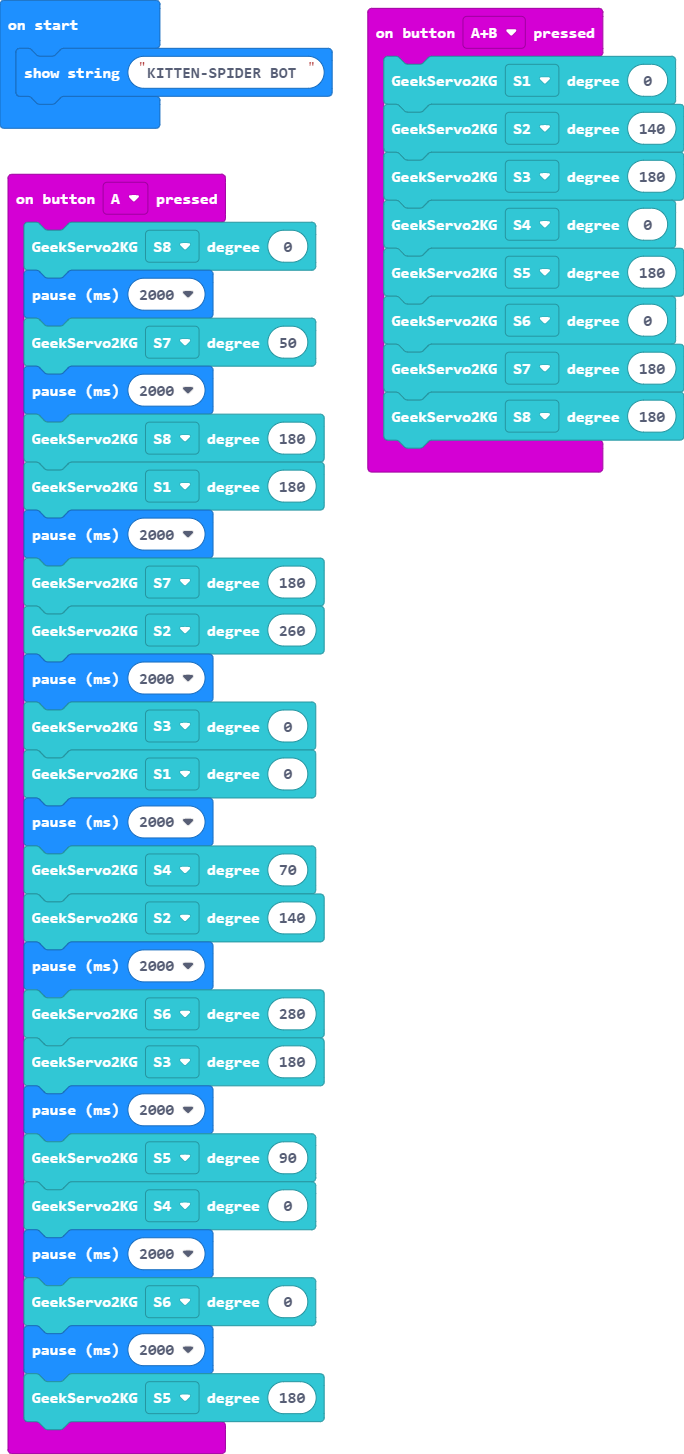
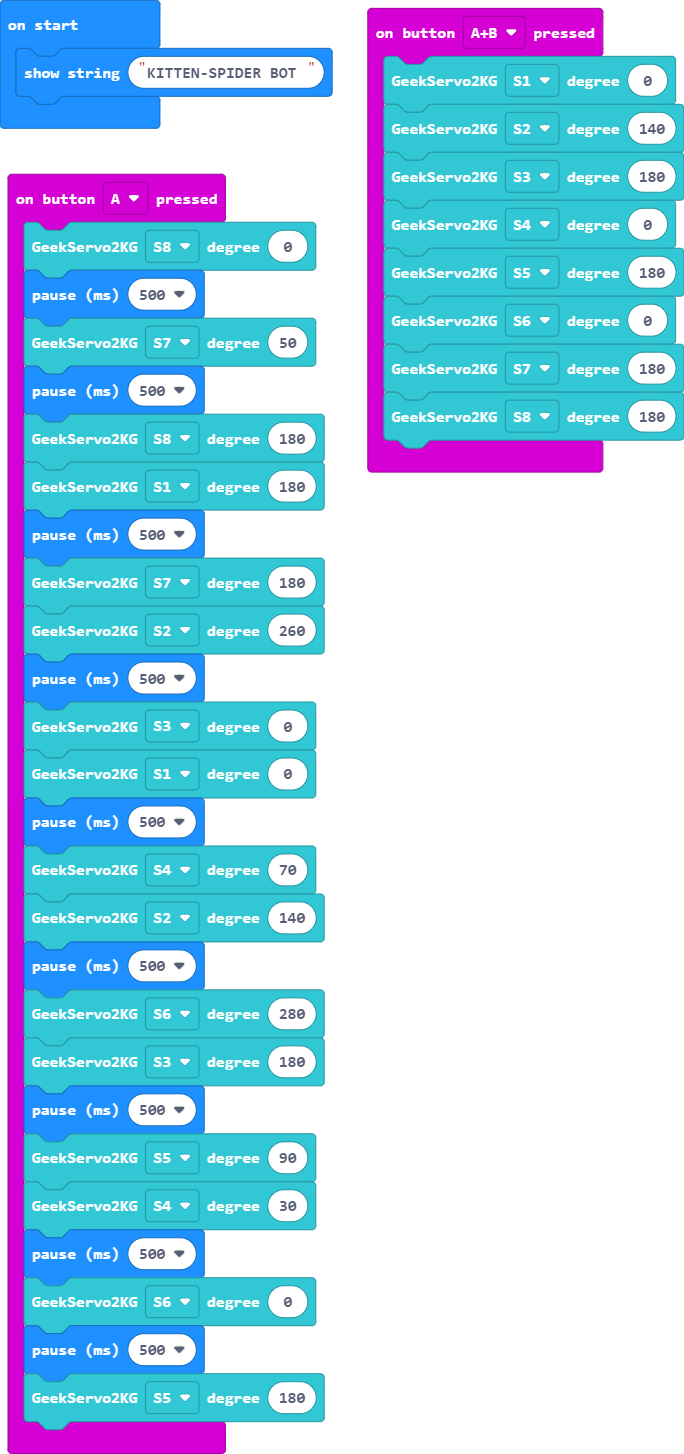
Update main.blocks, main.ts

diff --git a/main.ts b/main.ts
@@ -1,28 +1,28 @@
 input.onButtonPressed(Button.A, function () {
     robotbit.GeekServo2KG(robotbit.Servos.S8, 0)
-    basic.pause(2000)
+    basic.pause(500)
     robotbit.GeekServo2KG(robotbit.Servos.S7, 50)
-    basic.pause(2000)
+    basic.pause(500)
     robotbit.GeekServo2KG(robotbit.Servos.S8, 180)
     robotbit.GeekServo2KG(robotbit.Servos.S1, 180)
-    basic.pause(2000)
+    basic.pause(500)
     robotbit.GeekServo2KG(robotbit.Servos.S7, 180)
     robotbit.GeekServo2KG(robotbit.Servos.S2, 260)
-    basic.pause(2000)
+    basic.pause(500)
     robotbit.GeekServo2KG(robotbit.Servos.S3, 0)
     robotbit.GeekServo2KG(robotbit.Servos.S1, 0)
-    basic.pause(2000)
+    basic.pause(500)
     robotbit.GeekServo2KG(robotbit.Servos.S4, 70)
     robotbit.GeekServo2KG(robotbit.Servos.S2, 140)
-    basic.pause(2000)
+    basic.pause(500)
     robotbit.GeekServo2KG(robotbit.Servos.S6, 280)
     robotbit.GeekServo2KG(robotbit.Servos.S3, 180)
-    basic.pause(2000)
+    basic.pause(500)
     robotbit.GeekServo2KG(robotbit.Servos.S5, 90)
-    robotbit.GeekServo2KG(robotbit.Servos.S4, 0)
-    basic.pause(2000)
+    robotbit.GeekServo2KG(robotbit.Servos.S4, 30)
+    basic.pause(500)
     robotbit.GeekServo2KG(robotbit.Servos.S6, 0)
-    basic.pause(2000)
+    basic.pause(500)
     robotbit.GeekServo2KG(robotbit.Servos.S5, 180)
 })
 input.onButtonPressed(Button.AB, function () {
